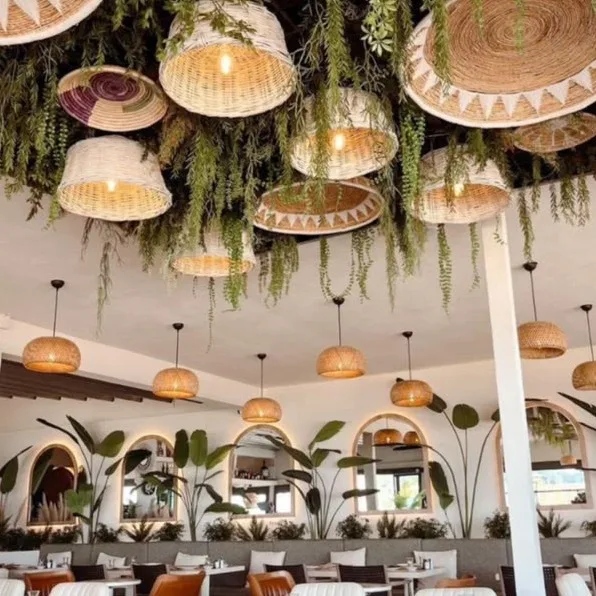
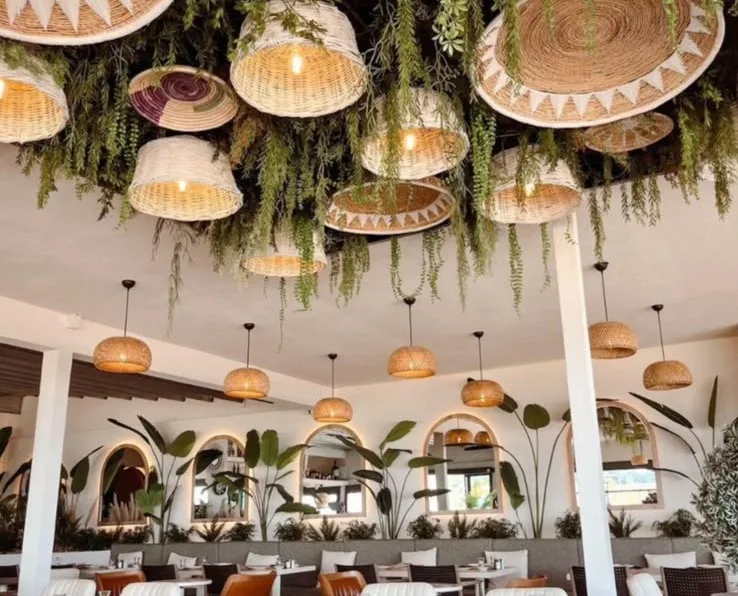
Use object-fit contain so full café photos show, no cropping

diff --git a/index.html b/index.html
@@ -768,6 +768,10 @@
     display: block;
     scroll-snap-align: start;
   }
+  .carousel-track picture img {
+    object-fit: contain;
+    background: var(--forest-deep);
+  }
   .carousel-arrow {
     position: absolute; top: 50%;
     transform: translateY(-50%);
@@ -1398,11 +1402,11 @@
           <div class="carousel-track">
             <picture>
               <source type="image/webp" srcset="images/dining/fir-and-flame-cafe-a-400.webp 400w, images/dining/fir-and-flame-cafe-a-800.webp 800w, images/dining/fir-and-flame-cafe-a-1600.webp 1600w" sizes="(max-width: 900px) 90vw, 450px" />
-              <img src="images/dining/fir-and-flame-cafe-a-800.jpg" srcset="images/dining/fir-and-flame-cafe-a-400.jpg 400w, images/dining/fir-and-flame-cafe-a-800.jpg 800w, images/dining/fir-and-flame-cafe-a-1600.jpg 1600w" sizes="(max-width: 900px) 90vw, 450px" alt="The Fir & Flame Café — arched wall niches" loading="lazy" width="736" height="736" />
+              <img src="images/dining/fir-and-flame-cafe-a-800.jpg" srcset="images/dining/fir-and-flame-cafe-a-400.jpg 400w, images/dining/fir-and-flame-cafe-a-800.jpg 800w, images/dining/fir-and-flame-cafe-a-1600.jpg 1600w" sizes="(max-width: 900px) 90vw, 450px" alt="The Fir & Flame Café — arched wall niches" loading="lazy" width="736" height="981" />
             </picture>
             <picture>
               <source type="image/webp" srcset="images/dining/fir-and-flame-cafe-b-400.webp 400w, images/dining/fir-and-flame-cafe-b-800.webp 800w, images/dining/fir-and-flame-cafe-b-1600.webp 1600w" sizes="(max-width: 900px) 90vw, 450px" />
-              <img src="images/dining/fir-and-flame-cafe-b-800.jpg" srcset="images/dining/fir-and-flame-cafe-b-400.jpg 400w, images/dining/fir-and-flame-cafe-b-800.jpg 800w, images/dining/fir-and-flame-cafe-b-1600.jpg 1600w" sizes="(max-width: 900px) 90vw, 450px" alt="The Fir & Flame Café — woven ceiling installation" loading="lazy" width="596" height="596" />
+              <img src="images/dining/fir-and-flame-cafe-b-800.jpg" srcset="images/dining/fir-and-flame-cafe-b-400.jpg 400w, images/dining/fir-and-flame-cafe-b-800.jpg 800w, images/dining/fir-and-flame-cafe-b-1600.jpg 1600w" sizes="(max-width: 900px) 90vw, 450px" alt="The Fir & Flame Café — woven ceiling installation" loading="lazy" width="738" height="596" />
             </picture>
           </div>
           <button class="carousel-arrow prev" aria-label="Previous photo" onclick="this.closest('.carousel').querySelector('.carousel-track').scrollBy({left:-this.closest('.carousel').querySelector('.carousel-track').clientWidth,behavior:'smooth'})">&#8249;</button>
